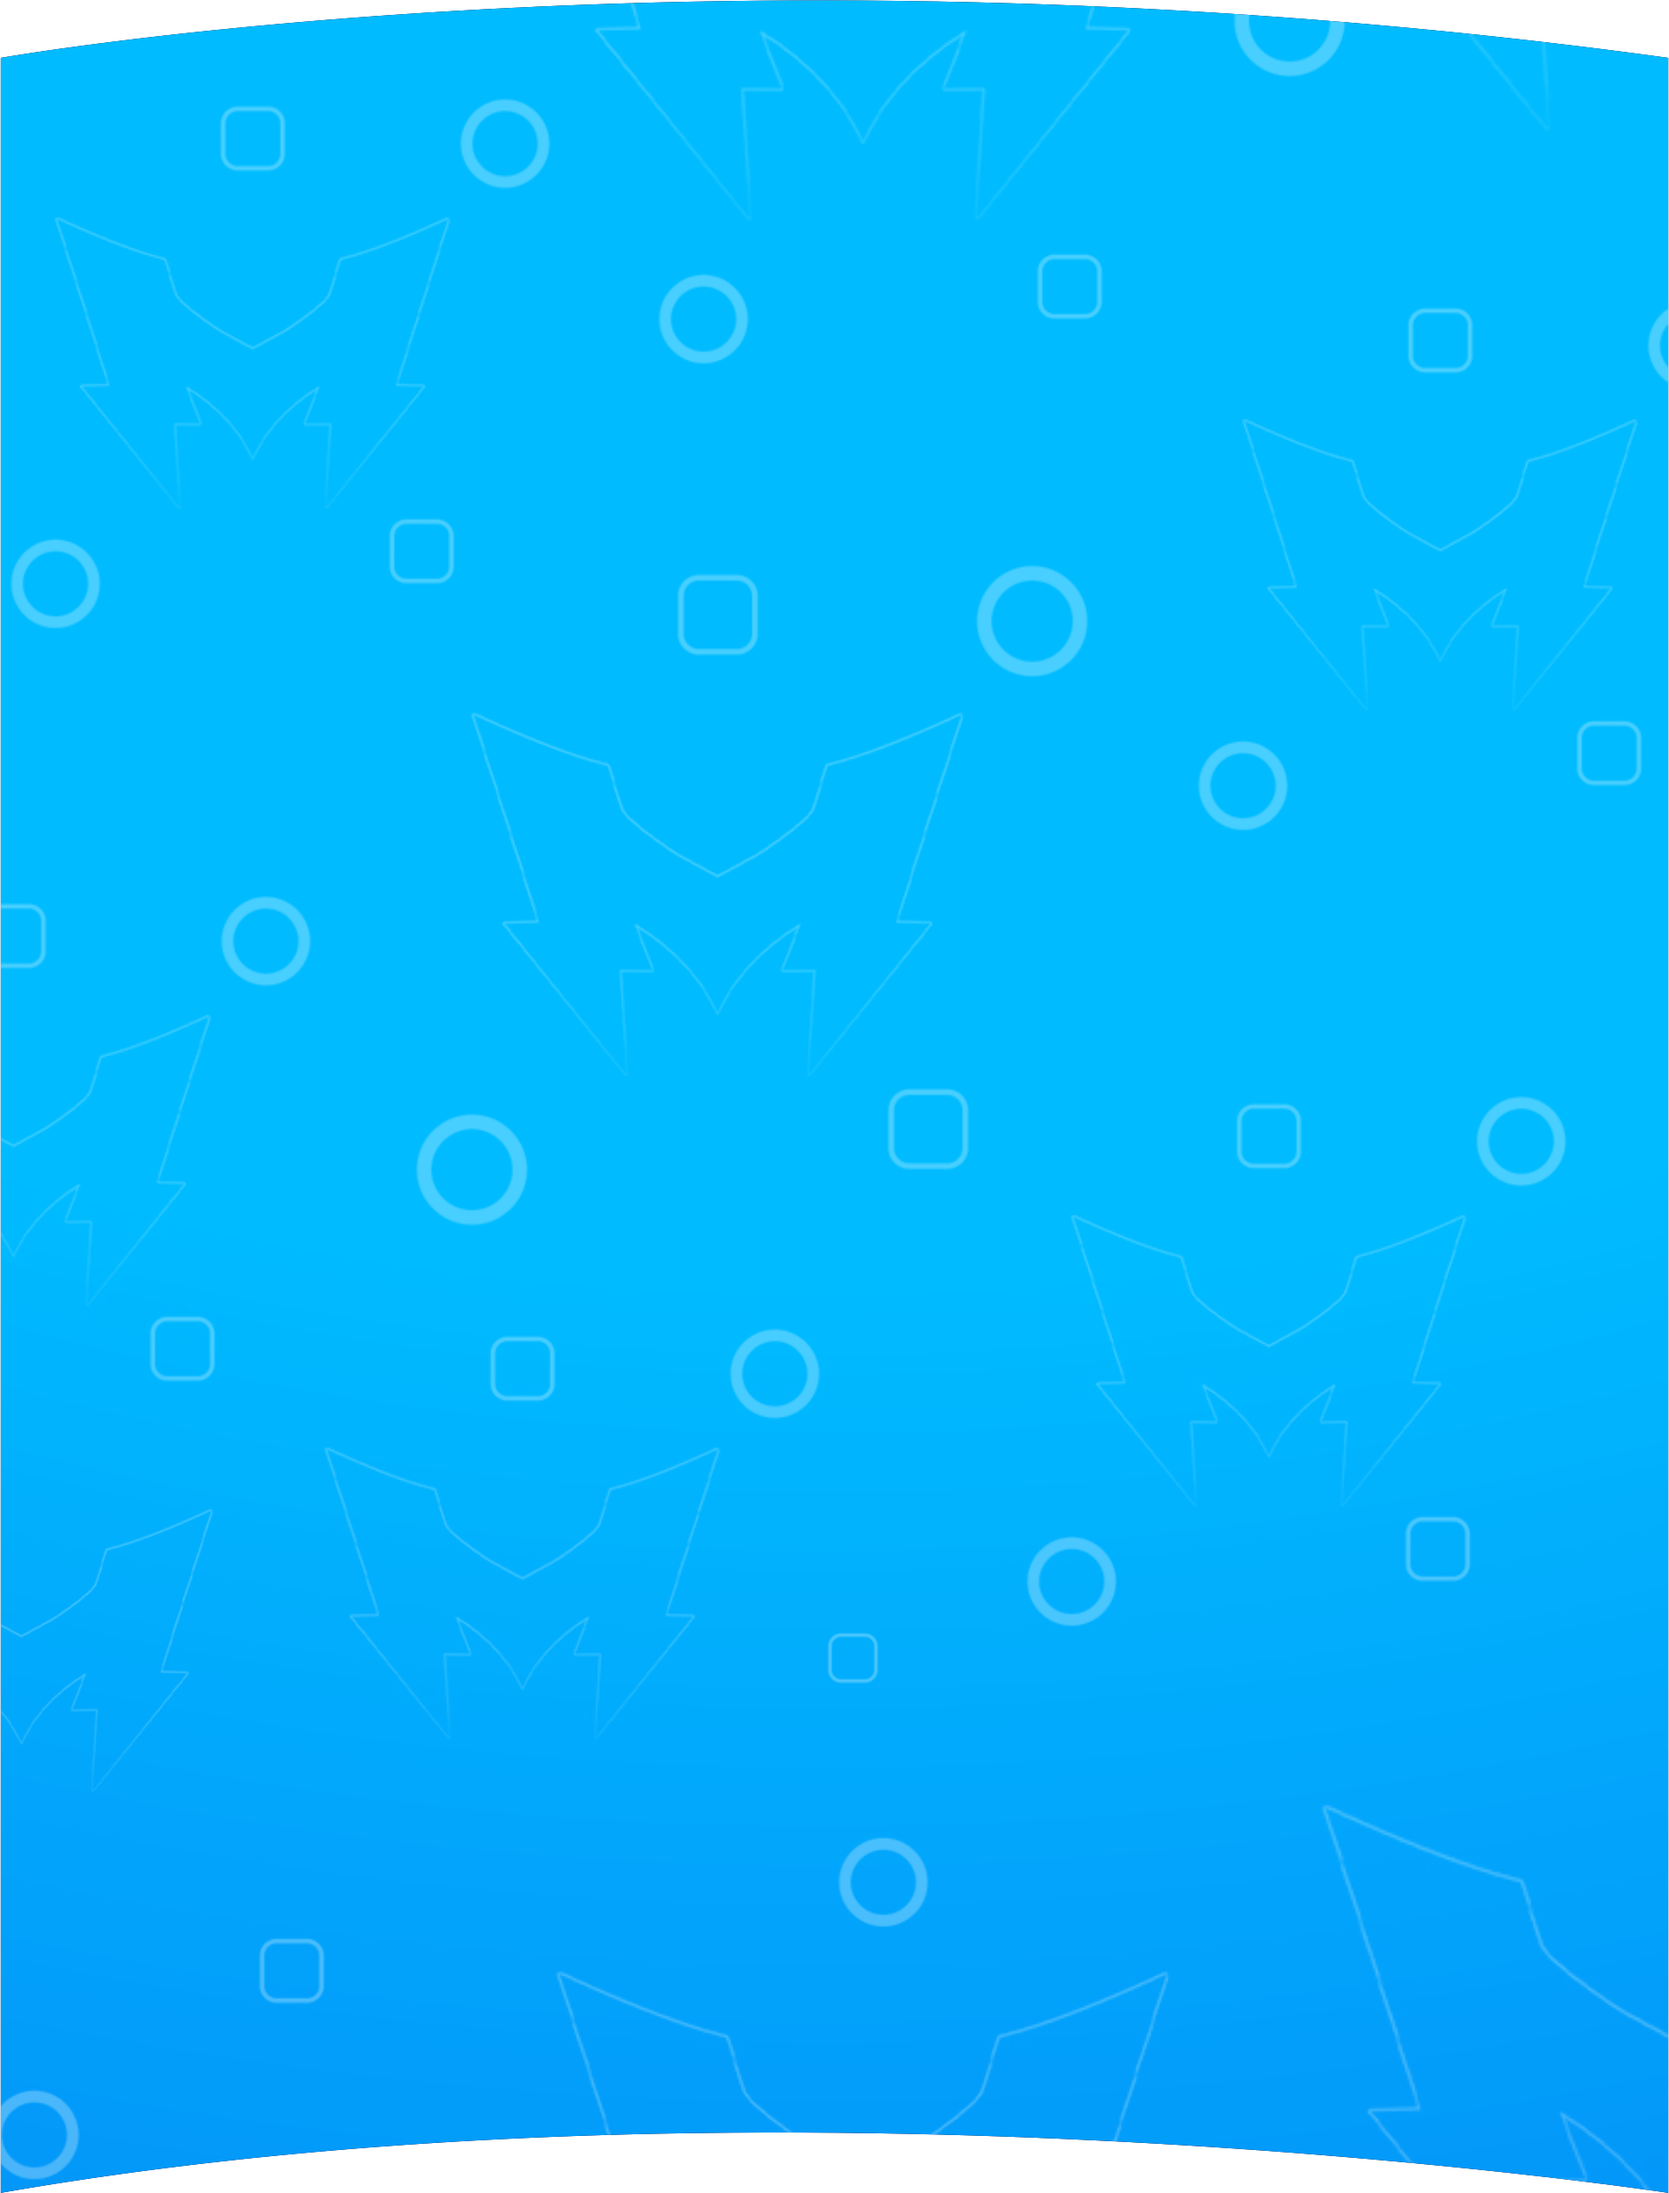
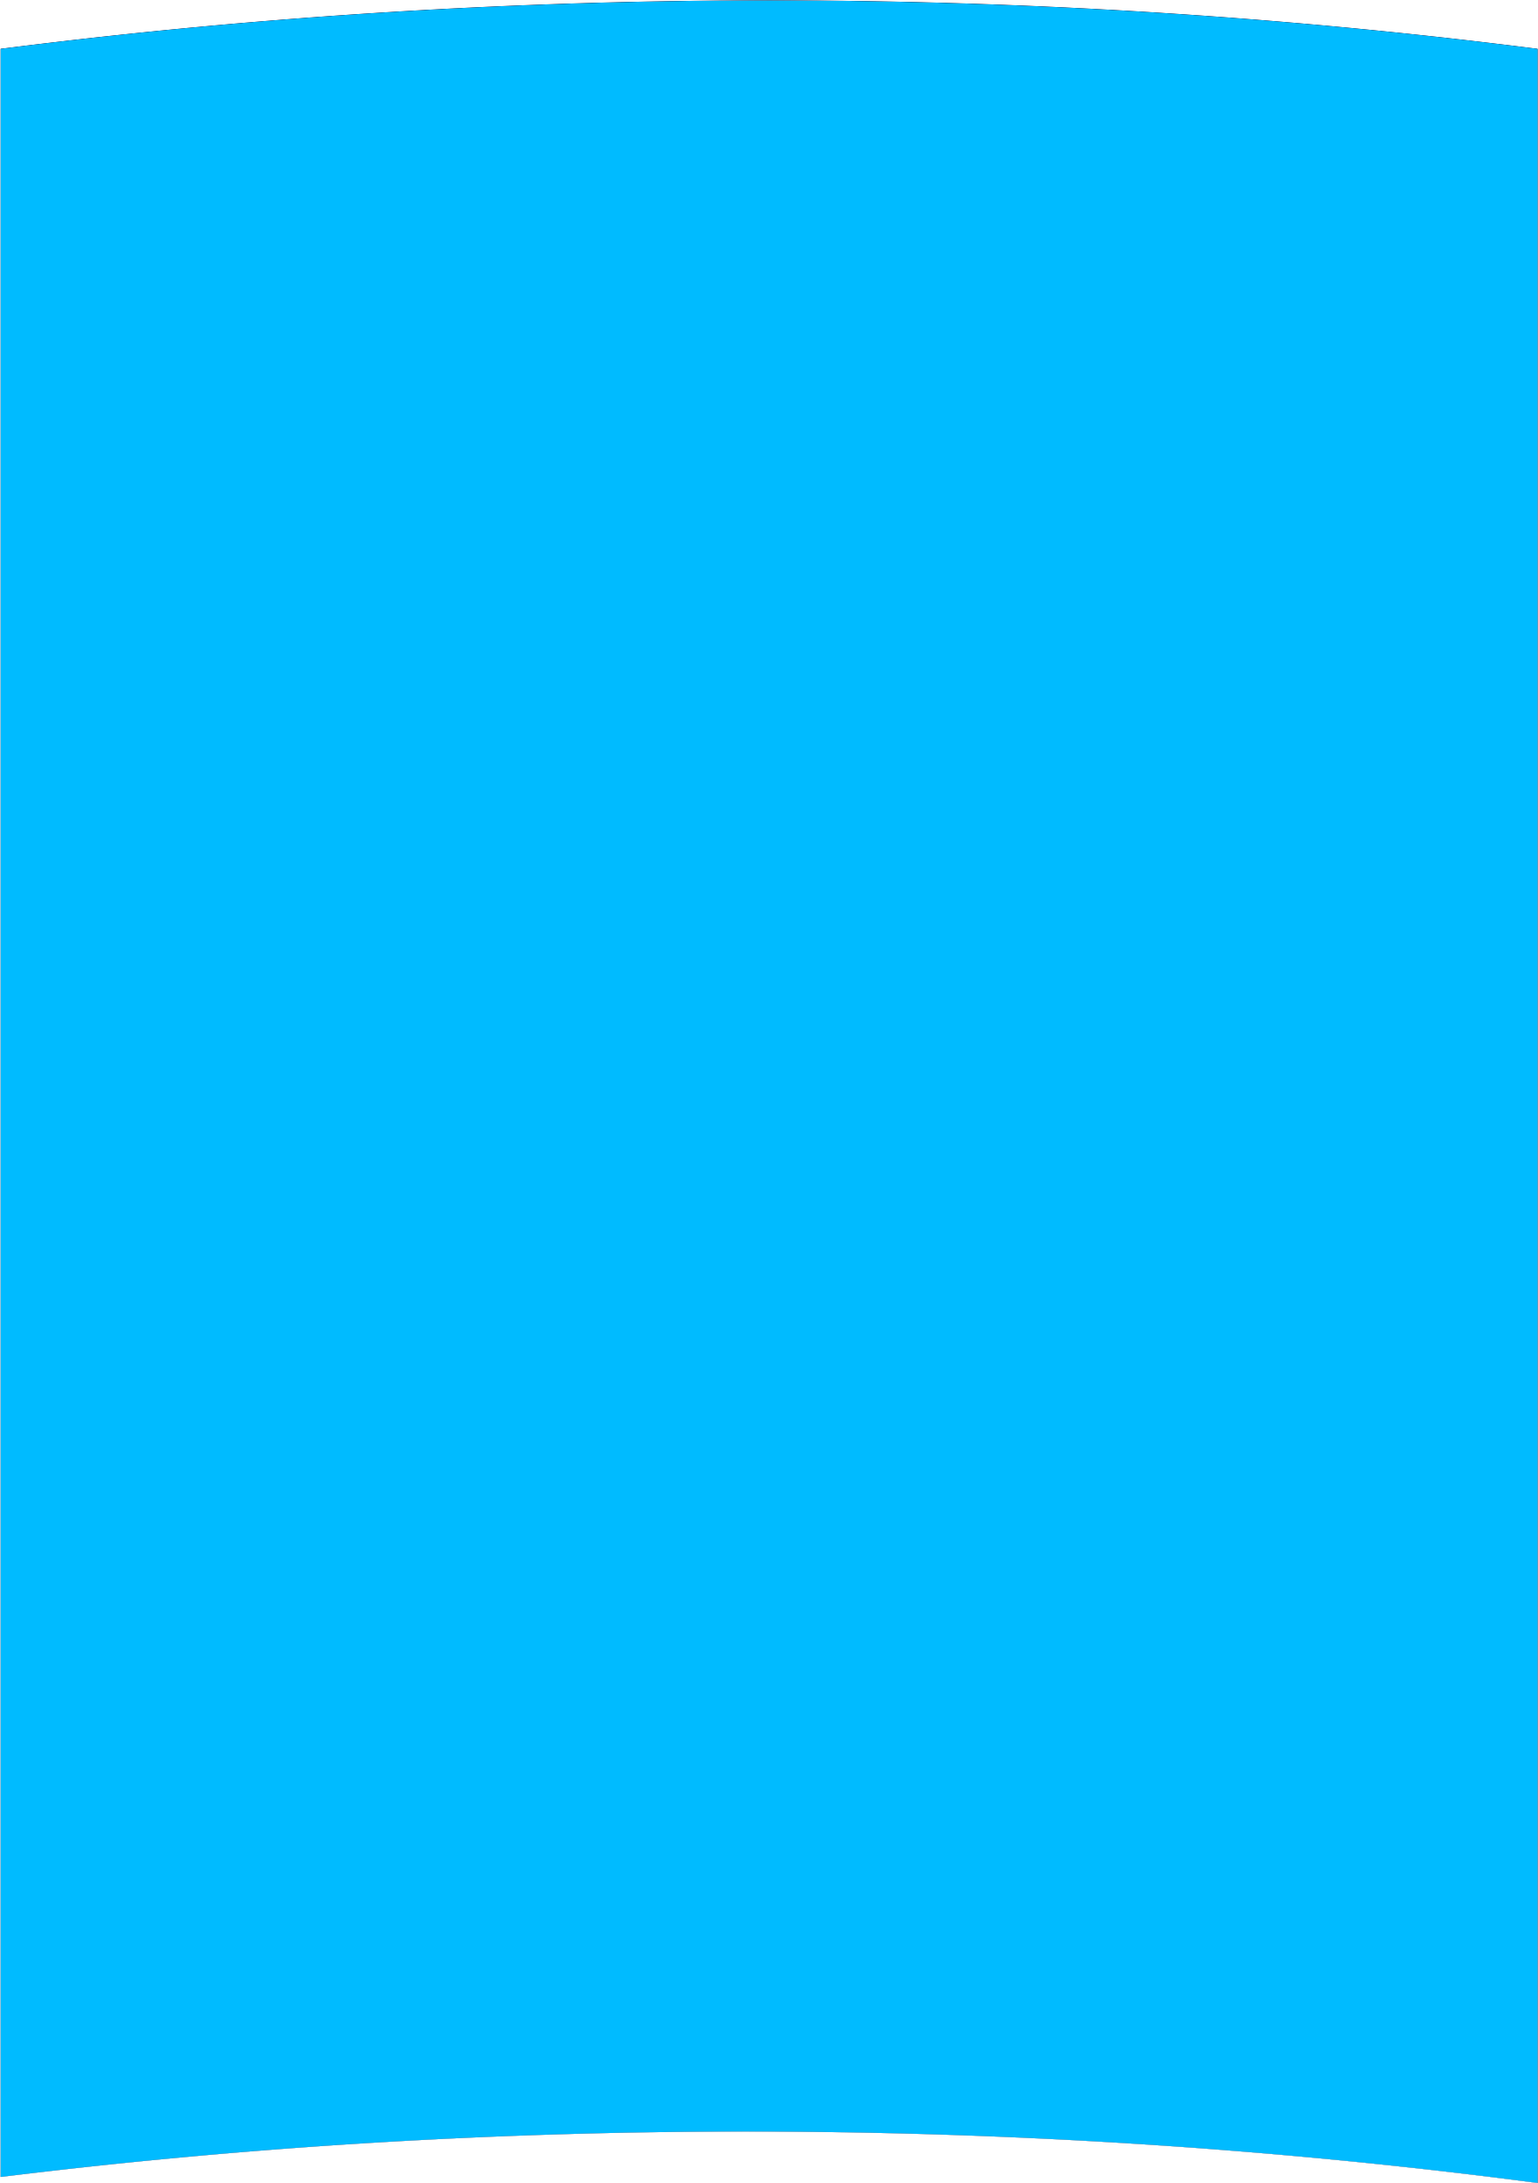
perbaaikan background

diff --git a/src/components/FAQ.jsx b/src/components/FAQ.jsx
@@ -18,8 +18,16 @@ export function FAQ() {
 
   return (
     <section className="relative z-20 overflow-hidden">
-      <div className="absolute inset-0 bg-[url('/assets/images/bg-faq.png')] bg-cover bg-no-repeat bg-top min-h-[520px]" />
+      {/* Background image */}
+      <div
+        className="absolute inset-0 bg-[url('/assets/images/bg-faq.png')] 
+               bg-cover bg-no-repeat bg-top min-h-[520px] opacity-80"
+      />
 
+      {/* Overlay opacity */}
+      <div className="absolute inset-0" />
+
+      {/* Content */}
       <div className="relative z-10 py-24 w-full px-4 sm:px-6 lg:px-8">
         <div className="text-center mb-12 mx-auto">
           <img src="/assets/images/faq-text.png" />
